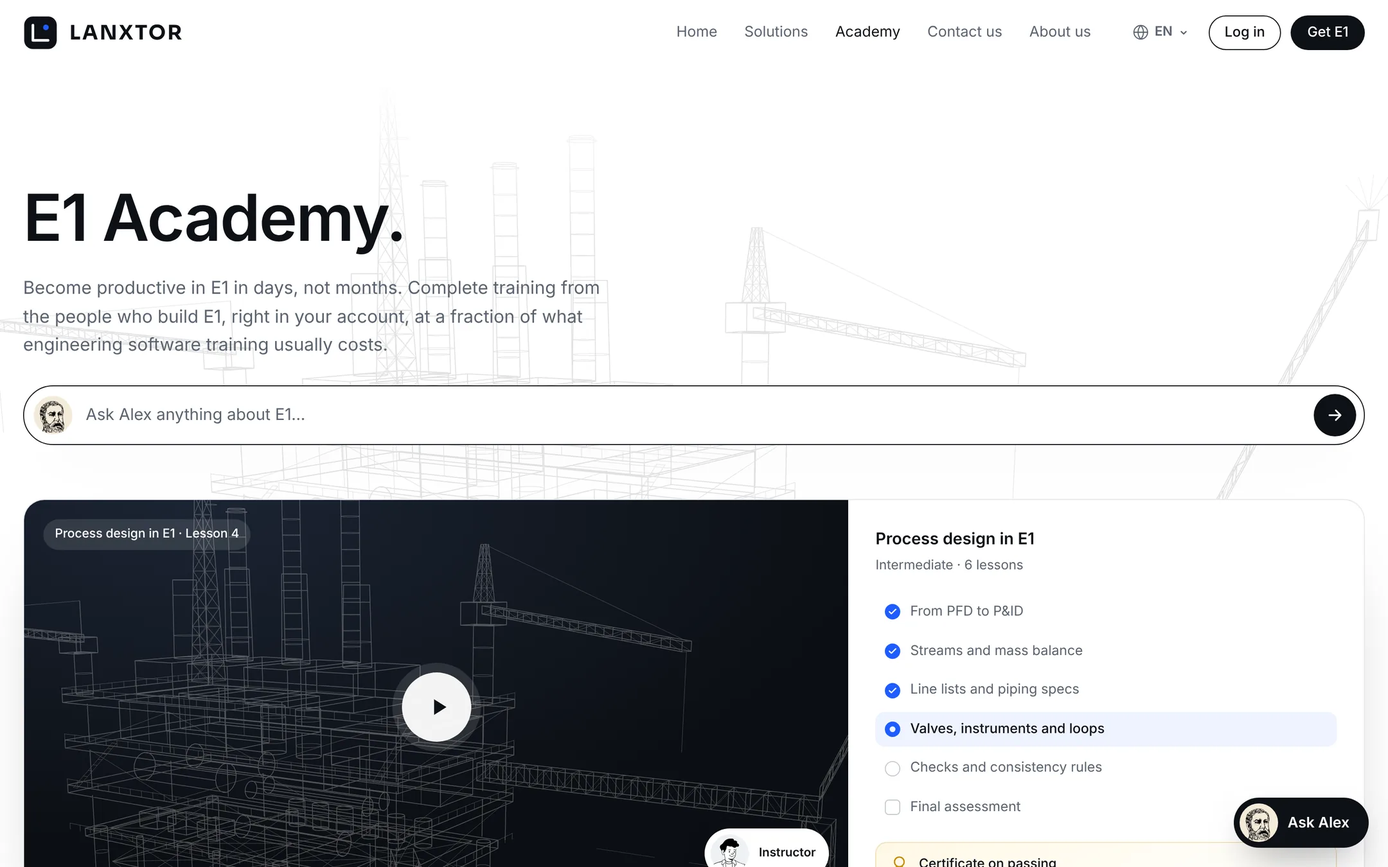
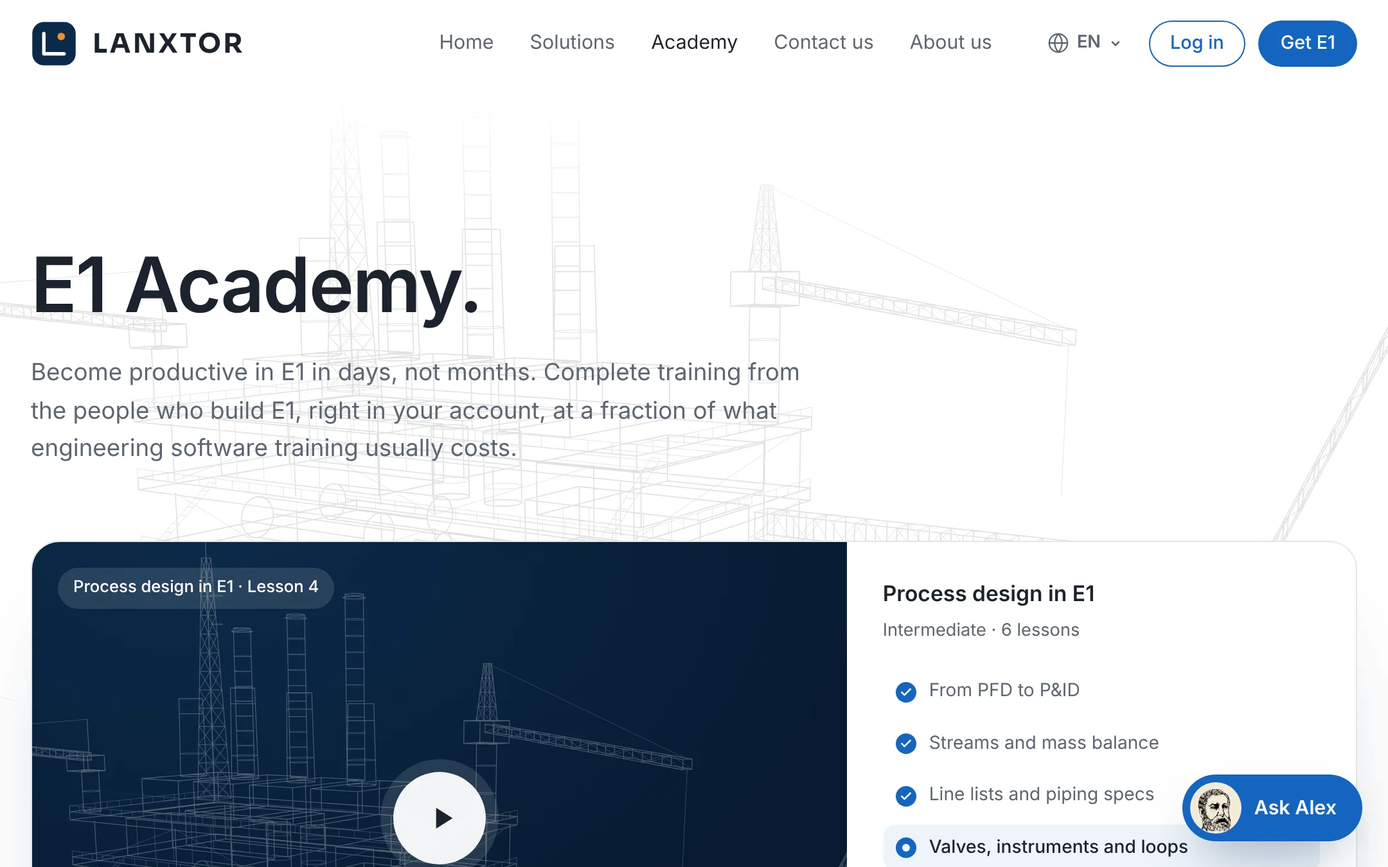
Get E1 starts with the E1 Cloud panel; no Ask Alex box on the pages
Get E1: the "Two ways to run E1" text and its two cards are gone, so the
E1 Cloud panel follows the download buttons. The "Ask Alex anything about
E1" box is removed from the home, Solutions, Academy and Get E1 pages:
the Ask Alex button at the bottom right of every page stays. User guide
(WEB-assistant, the Get E1 and Academy screenshots) updated.

Claude-Session: https://claude.ai/code/session_011w3qqfhTdgNCTiibxU4net

diff --git a/guide-account.html b/guide-account.html
@@ -322,7 +322,7 @@
       <tr><td>4</td><td>On any other computer or a tablet, open your account page and click <span class="ui">Open E1 in the browser</span>.</td><td>E1 opens at app.lanxtor.com.</td></tr>
     </tbody>
   </table></div>
-  <figure class="g-shot" style="max-width:1080px"><img src="assets/img/guides/web-download.webp" alt="The Get E1 page with the E1 Cloud and Your cloud cards and the Ask Alex bar" width="2160" height="1350" loading="lazy"><figcaption>The Get E1 page.</figcaption></figure>
+  <figure class="g-shot" style="max-width:1080px"><img src="assets/img/guides/web-download.webp" alt="The Get E1 page with the download buttons and the E1 Cloud panel" width="2160" height="1350" loading="lazy"><figcaption>The Get E1 page.</figcaption></figure>
   <p class="g-warn">This page has no direct link to open E1 in the browser; that link is on the account page.</p>
   <p class="g-related">Related: <a href="#web-installers">Desktop installers</a> · <a href="#web-pricing">Licenses and prices</a> · <a href="#web-cloud-specs">E1 Cloud specifications</a> · <a href="guide-access.html#acc-sign-in">Sign in to E1</a></p>
 </section>
@@ -523,16 +523,16 @@
       <tr><td>2</td><td>Find the prices.</td><td>"Included with E1 Editor" ($0 extra with the annual Editor subscription) and "The Academy on its own" ($750 one-time, per person; also included with the annual E1 Editor subscription). "Preview lessons are free with any E1 account."</td></tr>
     </tbody>
   </table></div>
-  <figure class="g-shot" style="max-width:1080px"><img src="assets/img/guides/web-academy.webp" alt="The public Academy page with the Ask Alex bar" width="2160" height="1350" loading="lazy"><figcaption>The Academy page, with the Ask Alex bar.</figcaption></figure>
+  <figure class="g-shot" style="max-width:1080px"><img src="assets/img/guides/web-academy.webp" alt="The public Academy page with the course player preview" width="2160" height="1350" loading="lazy"><figcaption>The Academy page.</figcaption></figure>
   <p class="g-related">Related: <a href="#web-academy">Academy courses</a> · <a href="#web-pricing">Licenses and prices</a></p>
 </section>
 
 <section class="g-feature" id="web-assistant">
   <h2>Alex on the website: ask and follow the suggestions</h2>
-  <div class="g-meta"><span class="g-status available">Available</span><span>Since 2026-11-06</span><span>Updated 2026-11-09</span><span class="g-id">WEB-assistant</span><span>Review checks W1, W9</span></div>
+  <div class="g-meta"><span class="g-status available">Available</span><span>Since 2026-11-06</span><span>Updated 2026-11-10</span><span class="g-id">WEB-assistant</span><span>Review checks W1, W9</span></div>
   <p class="g-summary">Ask the website's assistant anything about E1, by typing or by clicking one of its suggested questions, and it answers from the website's own information. After every answer it suggests 3 to 5 further questions in the direction you are going. No sign-in is needed. To have a request for information (RFI) answered, send it to sales@lanxtor.com.</p>
   <dl class="g-facts">
-    <dt>Where</dt><dd>The floating <span class="ui">Ask Alex</span> button on every page; the ask bar on the home, solutions, Get E1 and Academy pages</dd>
+    <dt>Where</dt><dd>The floating <span class="ui">Ask Alex</span> button at the bottom right of every page</dd>
     <dt>Who</dt><dd>Anyone; it uses no organization credits</dd>
   </dl>
   <h3>Steps</h3>
@@ -547,7 +547,7 @@
     </tbody>
   </table></div>
   <figure class="g-shot" style="max-width:1080px"><img src="assets/img/guides/web-assistant.webp" alt="The Alex panel on the Academy page: the answer to What does E1 cost? and the suggestions What is the difference between Viewer, Reviewer and Editor?, How many AI credits are included?, How does the 30-day trial work? and Is E1 free for students and universities?" width="2160" height="1350" loading="lazy"><figcaption>After an answer, Alex suggests the next questions.</figcaption></figure>
-  <p class="g-note">On a phone the panel fills the screen and its typing area stays right above the keyboard; tapping the ask bar on a page opens the panel straight away, ready to type. After you send a question the keyboard closes, so the answer and the suggestions have the screen.</p>
+  <p class="g-note">On a phone the panel fills the screen and its typing area stays right above the keyboard. After you send a question the keyboard closes, so the answer and the suggestions have the screen.</p>
   <p class="g-note">The suggestions are in the page language. Alex on the website has no microphone and does not read answers aloud; type, or click a suggestion.</p>
   <p class="g-warn">This assistant is not the Alex inside E1. It answers only from the website's text, may be wrong ("Answers are written by AI"), and keeps nothing of your conversation. Limit: 20 questions per 10 minutes per visitor ("That was a lot of questions in a short time…"). If it is not connected, it says "I'm not connected yet. …" and points to sales@lanxtor.com.</p>
   <p class="g-related">Related: <a href="guide-ai.html#ai-alex">Alex in E1</a> · <a href="#web-languages">Languages</a></p>

diff --git a/tools/guides/src/account.html b/tools/guides/src/account.html
@@ -252,7 +252,7 @@
       <tr><td>4</td><td>On any other computer or a tablet, open your account page and click <span class="ui">Open E1 in the browser</span>.</td><td>E1 opens at app.lanxtor.com.</td></tr>
     </tbody>
   </table></div>
-  <figure class="g-shot"><img src="assets/img/guides/web-download.webp" alt="The Get E1 page with the E1 Cloud and Your cloud cards and the Ask Alex bar" width="2160" height="1350" loading="lazy"><figcaption>The Get E1 page.</figcaption></figure>
+  <figure class="g-shot"><img src="assets/img/guides/web-download.webp" alt="The Get E1 page with the download buttons and the E1 Cloud panel" width="2160" height="1350" loading="lazy"><figcaption>The Get E1 page.</figcaption></figure>
   <p class="g-warn">This page has no direct link to open E1 in the browser; that link is on the account page.</p>
   <p class="g-related">Related: <a href="#web-installers">Desktop installers</a> · <a href="#web-pricing">Licenses and prices</a> · <a href="#web-cloud-specs">E1 Cloud specifications</a> · <a href="guide-access.html#acc-sign-in">Sign in to E1</a></p>
 </section>
@@ -453,16 +453,16 @@
       <tr><td>2</td><td>Find the prices.</td><td>"Included with E1 Editor" ($0 extra with the annual Editor subscription) and "The Academy on its own" ($750 one-time, per person; also included with the annual E1 Editor subscription). "Preview lessons are free with any E1 account."</td></tr>
     </tbody>
   </table></div>
-  <figure class="g-shot"><img src="assets/img/guides/web-academy.webp" alt="The public Academy page with the Ask Alex bar" width="2160" height="1350" loading="lazy"><figcaption>The Academy page, with the Ask Alex bar.</figcaption></figure>
+  <figure class="g-shot"><img src="assets/img/guides/web-academy.webp" alt="The public Academy page with the course player preview" width="2160" height="1350" loading="lazy"><figcaption>The Academy page.</figcaption></figure>
   <p class="g-related">Related: <a href="#web-academy">Academy courses</a> · <a href="#web-pricing">Licenses and prices</a></p>
 </section>
 
 <section class="g-feature" id="web-assistant">
   <h2>Alex on the website: ask and follow the suggestions</h2>
-  <div class="g-meta"><span class="g-status available">Available</span><span>Since 2026-11-06</span><span>Updated 2026-11-09</span><span class="g-id">WEB-assistant</span><span>Review checks W1, W9</span></div>
+  <div class="g-meta"><span class="g-status available">Available</span><span>Since 2026-11-06</span><span>Updated 2026-11-10</span><span class="g-id">WEB-assistant</span><span>Review checks W1, W9</span></div>
   <p class="g-summary">Ask the website's assistant anything about E1, by typing or by clicking one of its suggested questions, and it answers from the website's own information. After every answer it suggests 3 to 5 further questions in the direction you are going. No sign-in is needed. To have a request for information (RFI) answered, send it to sales@lanxtor.com.</p>
   <dl class="g-facts">
-    <dt>Where</dt><dd>The floating <span class="ui">Ask Alex</span> button on every page; the ask bar on the home, solutions, Get E1 and Academy pages</dd>
+    <dt>Where</dt><dd>The floating <span class="ui">Ask Alex</span> button at the bottom right of every page</dd>
     <dt>Who</dt><dd>Anyone; it uses no organization credits</dd>
   </dl>
   <h3>Steps</h3>
@@ -477,7 +477,7 @@
     </tbody>
   </table></div>
   <figure class="g-shot"><img src="assets/img/guides/web-assistant.webp" alt="The Alex panel on the Academy page: the answer to What does E1 cost? and the suggestions What is the difference between Viewer, Reviewer and Editor?, How many AI credits are included?, How does the 30-day trial work? and Is E1 free for students and universities?" width="2160" height="1350" loading="lazy"><figcaption>After an answer, Alex suggests the next questions.</figcaption></figure>
-  <p class="g-note">On a phone the panel fills the screen and its typing area stays right above the keyboard; tapping the ask bar on a page opens the panel straight away, ready to type. After you send a question the keyboard closes, so the answer and the suggestions have the screen.</p>
+  <p class="g-note">On a phone the panel fills the screen and its typing area stays right above the keyboard. After you send a question the keyboard closes, so the answer and the suggestions have the screen.</p>
   <p class="g-note">The suggestions are in the page language. Alex on the website has no microphone and does not read answers aloud; type, or click a suggestion.</p>
   <p class="g-warn">This assistant is not the Alex inside E1. It answers only from the website's text, may be wrong ("Answers are written by AI"), and keeps nothing of your conversation. Limit: 20 questions per 10 minutes per visitor ("That was a lot of questions in a short time…"). If it is not connected, it says "I'm not connected yet. …" and points to sales@lanxtor.com.</p>
   <p class="g-related">Related: <a href="guide-ai.html#ai-alex">Alex in E1</a> · <a href="#web-languages">Languages</a></p>

diff --git a/guide-features.html b/guide-features.html
@@ -315,7 +315,7 @@
             <tr data-status="preview" data-cat="account"><td class="g-id">WEB-certificate-page</td><td><a href="guide-account.html#web-certificate-page">The public certificate page</a><br><span class="muted">A public page per certificate to verify, share, download or print it.</span></td><td>Your account, Academy and website</td><td><span class="g-status preview">Preview data only</span></td><td class="g-date">2026-11-05</td><td class="g-date"></td><td>W3.4</td><td></td><td>Sharing a certificate</td></tr>
             <tr data-status="available" data-cat="account"><td class="g-id">WEB-user-guides</td><td><a href="guide-account.html#web-user-guides">User guides</a><br><span class="muted">Every feature of E1, step by step, with its status and the date it last changed.</span></td><td>Your account, Academy and website</td><td><span class="g-status available">Available</span></td><td class="g-date">2026-11-07</td><td class="g-date"></td><td></td><td></td><td>Using the user guides</td></tr>
             <tr data-status="available" data-cat="account"><td class="g-id">WEB-academy-public</td><td><a href="guide-account.html#web-academy-public">The Academy page</a><br><span class="muted">The public page with the courses on offer and what the Academy costs.</span></td><td>Your account, Academy and website</td><td><span class="g-status available">Available</span></td><td class="g-date"></td><td class="g-date">2026-11-10</td><td></td><td></td><td>The Academy page</td></tr>
-            <tr data-status="available" data-cat="account"><td class="g-id">WEB-assistant</td><td><a href="guide-account.html#web-assistant">Alex on the website: ask and follow the suggestions</a><br><span class="muted">Ask the website assistant about E1 by typing or clicking its suggested questions.</span></td><td>Your account, Academy and website</td><td><span class="g-status available">Available</span></td><td class="g-date">2026-11-06</td><td class="g-date">2026-11-09</td><td></td><td>W1, W9</td><td>Asking Alex on the website</td></tr>
+            <tr data-status="available" data-cat="account"><td class="g-id">WEB-assistant</td><td><a href="guide-account.html#web-assistant">Alex on the website: ask and follow the suggestions</a><br><span class="muted">Ask the website assistant about E1 by typing or clicking its suggested questions.</span></td><td>Your account, Academy and website</td><td><span class="g-status available">Available</span></td><td class="g-date">2026-11-06</td><td class="g-date">2026-11-10</td><td></td><td>W1, W9</td><td>Asking Alex on the website</td></tr>
             <tr data-status="preview" data-cat="account"><td class="g-id">WEB-board</td><td><a href="guide-account.html#web-board">The Shape E1 board: requests and votes</a><br><span class="muted">Search, vote for, comment on and post feature requests for E1.</span></td><td>Your account, Academy and website</td><td><span class="g-status preview">Preview data only</span></td><td class="g-date">2026-11-04</td><td class="g-date">2026-11-10</td><td>W1.2, W3.3</td><td>W7</td><td>Shaping E1 with us</td></tr>
             <tr data-status="available" data-cat="account"><td class="g-id">WEB-languages</td><td><a href="guide-account.html#web-languages">Languages</a><br><span class="muted">The website in English, German, French, Spanish and Norwegian.</span></td><td>Your account, Academy and website</td><td><span class="g-status available">Available</span></td><td class="g-date">2026-11-06</td><td class="g-date"></td><td></td><td></td><td>The website in your language</td></tr>
             <tr data-status="under-development" data-cat="reviewer"><td class="g-id">IPAD-sign-in</td><td><a href="guide-reviewer.html#ipad-sign-in">Open E1 Reviewer on the iPad and sign in</a><br><span class="muted">Open your E1&#x27;s /reviewer/ address in Safari on the iPad, sign in with your company account, and add it to the Home Screen; the E1 Reviewer app, once released, signs in the same way.</span></td><td>E1 Reviewer for iPad</td><td><span class="g-status under-development">Under development</span></td><td class="g-date"></td><td class="g-date">2026-11-09</td><td>27.1</td><td></td><td>E1 Reviewer on the iPad</td></tr>

diff --git a/fr/download.html b/fr/download.html
@@ -7,7 +7,7 @@
   <title>Obtenir E1 — LANXTOR</title>
   <meta name="description" content="Téléchargez E1 pour Windows et macOS, ou utilisez-le dans le navigateur, et choisissez votre licence : Student, Viewer, Reviewer, Editor ou Enterprise, avec un essai de 30 jours.">
   <link rel="icon" href="assets/img/favicon.svg" type="image/svg+xml">
-  <link rel="stylesheet" href="assets/css/styles.css?v=113">
+  <link rel="stylesheet" href="assets/css/styles.css?v=114">
   <!-- i18n:alternates -->
   <link rel="alternate" hreflang="en" href="https://www.lanxtor.com/download.html">
   <link rel="alternate" hreflang="de" href="https://www.lanxtor.com/de/download.html">
@@ -49,27 +49,6 @@
           <a class="get-btn get-btn-primary is-soon" href="guide-reviewer.html" data-get-os="ipad" data-soon-href="guide-reviewer.html" aria-disabled="true"><svg class="get-icon" viewBox="0 0 24 24" fill="none" stroke="currentColor" stroke-width="1.8" stroke-linecap="round" stroke-linejoin="round" aria-hidden="true"><rect x="4" y="2" width="16" height="20" rx="2.5"/><path d="M11 18.5h2"/></svg><span class="get-text"><b>E1 Reviewer pour iPad</b><small data-get-meta>App Store · Bientôt disponible</small></span></a>
         </div>
         <p class="get-release" data-release-line></p>
-        <form class="ask-box reveal" data-ask>
-          <span class="ask-face"><img src="assets/img/hero-avatar.png?v=2" alt="" width="40" height="40"></span>
-          <input type="text" name="q" maxlength="2000" autocomplete="off" placeholder="Demandez à Alex tout ce que vous voulez sur E1…" aria-label="Demandez à Alex tout ce que vous voulez sur E1">
-          <button type="button" class="ask-reset" data-ask-reset hidden aria-label="Nouvelle conversation" title="Nouvelle conversation"><svg viewBox="0 0 24 24" fill="none" stroke="currentColor" stroke-width="1.8" stroke-linecap="round" stroke-linejoin="round" aria-hidden="true"><path d="M3 12a9 9 0 1 0 3-6.7L3 8"/><path d="M3 3v5h5"/></svg></button>
-          <button type="submit" class="ask-send" aria-label="Demander"><svg viewBox="0 0 24 24" fill="none" stroke="currentColor" stroke-width="2" stroke-linecap="round" stroke-linejoin="round" aria-hidden="true"><path d="M5 12h14M13 6l6 6-6 6"/></svg></button>
-        </form>
-        <p class="lead getE1-ways reveal">Deux façons d'utiliser E1 : en service dans E1 Cloud, prêt dès votre inscription, ou en installation d'entreprise sur le cloud ou les serveurs de votre choix.</p>
-        <div class="choice-grid reveal">
-          <a class="choice choice-dark choice-saas" href="fr/download.html#saas">
-            <span class="choice-tag">Logiciel en tant que service</span>
-            <span class="choice-title">E1 Cloud</span>
-            <span class="choice-desc">Hébergé et exploité par LANXTOR. Inscrivez-vous et commencez, rien à installer ni à maintenir.</span>
-            <svg class="choice-arrow" viewBox="0 0 24 24" fill="none" stroke="currentColor" stroke-width="1.6" stroke-linecap="round" stroke-linejoin="round" aria-hidden="true"><path d="M5 12h14M13 6l6 6-6 6"/></svg>
-          </a>
-          <a class="choice choice-dark" href="fr/download.html#own-servers">
-            <span class="choice-tag">Installation d'entreprise</span>
-            <span class="choice-title">Votre cloud. Votre choix.</span>
-            <span class="choice-desc">E1 dans votre propre environnement, avec votre propre base de données.</span>
-            <svg class="choice-arrow" viewBox="0 0 24 24" fill="none" stroke="currentColor" stroke-width="1.6" stroke-linecap="round" stroke-linejoin="round" aria-hidden="true"><path d="M5 12h14M13 6l6 6-6 6"/></svg>
-          </a>
-        </div>
       </div>
     </section>
 

diff --git a/de/download.html b/de/download.html
@@ -7,7 +7,7 @@
   <title>E1 holen — LANXTOR</title>
   <meta name="description" content="Laden Sie E1 für Windows und macOS herunter oder nutzen Sie es im Browser, und wählen Sie Ihre Lizenz: Student, Viewer, Reviewer, Editor oder Enterprise, mit 30-Tage-Test.">
   <link rel="icon" href="assets/img/favicon.svg" type="image/svg+xml">
-  <link rel="stylesheet" href="assets/css/styles.css?v=113">
+  <link rel="stylesheet" href="assets/css/styles.css?v=114">
   <!-- i18n:alternates -->
   <link rel="alternate" hreflang="en" href="https://www.lanxtor.com/download.html">
   <link rel="alternate" hreflang="de" href="https://www.lanxtor.com/de/download.html">
@@ -49,27 +49,6 @@
           <a class="get-btn get-btn-primary is-soon" href="guide-reviewer.html" data-get-os="ipad" data-soon-href="guide-reviewer.html" aria-disabled="true"><svg class="get-icon" viewBox="0 0 24 24" fill="none" stroke="currentColor" stroke-width="1.8" stroke-linecap="round" stroke-linejoin="round" aria-hidden="true"><rect x="4" y="2" width="16" height="20" rx="2.5"/><path d="M11 18.5h2"/></svg><span class="get-text"><b>E1 Reviewer für iPad</b><small data-get-meta>App Store · Demnächst</small></span></a>
         </div>
         <p class="get-release" data-release-line></p>
-        <form class="ask-box reveal" data-ask>
-          <span class="ask-face"><img src="assets/img/hero-avatar.png?v=2" alt="" width="40" height="40"></span>
-          <input type="text" name="q" maxlength="2000" autocomplete="off" placeholder="Fragen Sie Alex alles zu E1…" aria-label="Fragen Sie Alex alles zu E1">
-          <button type="button" class="ask-reset" data-ask-reset hidden aria-label="Neues Gespräch" title="Neues Gespräch"><svg viewBox="0 0 24 24" fill="none" stroke="currentColor" stroke-width="1.8" stroke-linecap="round" stroke-linejoin="round" aria-hidden="true"><path d="M3 12a9 9 0 1 0 3-6.7L3 8"/><path d="M3 3v5h5"/></svg></button>
-          <button type="submit" class="ask-send" aria-label="Fragen"><svg viewBox="0 0 24 24" fill="none" stroke="currentColor" stroke-width="2" stroke-linecap="round" stroke-linejoin="round" aria-hidden="true"><path d="M5 12h14M13 6l6 6-6 6"/></svg></button>
-        </form>
-        <p class="lead getE1-ways reveal">Zwei Wege, E1 zu betreiben: als Service in der E1 Cloud, sofort nach der Registrierung einsatzbereit, oder als Unternehmensinstallation in der Cloud oder auf den Servern Ihrer Wahl.</p>
-        <div class="choice-grid reveal">
-          <a class="choice choice-dark choice-saas" href="de/download.html#saas">
-            <span class="choice-tag">Software as a Service</span>
-            <span class="choice-title">E1 Cloud</span>
-            <span class="choice-desc">Gehostet und betrieben von LANXTOR. Registrieren und loslegen, nichts einzurichten oder zu warten.</span>
-            <svg class="choice-arrow" viewBox="0 0 24 24" fill="none" stroke="currentColor" stroke-width="1.6" stroke-linecap="round" stroke-linejoin="round" aria-hidden="true"><path d="M5 12h14M13 6l6 6-6 6"/></svg>
-          </a>
-          <a class="choice choice-dark" href="de/download.html#own-servers">
-            <span class="choice-tag">Unternehmensinstallation</span>
-            <span class="choice-title">Ihre Cloud. Ihre Wahl.</span>
-            <span class="choice-desc">E1 in Ihrer eigenen Umgebung, mit Ihrer eigenen Datenbank.</span>
-            <svg class="choice-arrow" viewBox="0 0 24 24" fill="none" stroke="currentColor" stroke-width="1.6" stroke-linecap="round" stroke-linejoin="round" aria-hidden="true"><path d="M5 12h14M13 6l6 6-6 6"/></svg>
-          </a>
-        </div>
       </div>
     </section>
 

diff --git a/es/download.html b/es/download.html
@@ -7,7 +7,7 @@
   <title>Obtén E1 — LANXTOR</title>
   <meta name="description" content="Descarga E1 para Windows y macOS, o úsalo en el navegador, y elige tu licencia: Student, Viewer, Reviewer, Editor o Enterprise, con una prueba de 30 días.">
   <link rel="icon" href="assets/img/favicon.svg" type="image/svg+xml">
-  <link rel="stylesheet" href="assets/css/styles.css?v=113">
+  <link rel="stylesheet" href="assets/css/styles.css?v=114">
   <!-- i18n:alternates -->
   <link rel="alternate" hreflang="en" href="https://www.lanxtor.com/download.html">
   <link rel="alternate" hreflang="de" href="https://www.lanxtor.com/de/download.html">
@@ -49,27 +49,6 @@
           <a class="get-btn get-btn-primary is-soon" href="guide-reviewer.html" data-get-os="ipad" data-soon-href="guide-reviewer.html" aria-disabled="true"><svg class="get-icon" viewBox="0 0 24 24" fill="none" stroke="currentColor" stroke-width="1.8" stroke-linecap="round" stroke-linejoin="round" aria-hidden="true"><rect x="4" y="2" width="16" height="20" rx="2.5"/><path d="M11 18.5h2"/></svg><span class="get-text"><b>E1 Reviewer para iPad</b><small data-get-meta>App Store · Próximamente</small></span></a>
         </div>
         <p class="get-release" data-release-line></p>
-        <form class="ask-box reveal" data-ask>
-          <span class="ask-face"><img src="assets/img/hero-avatar.png?v=2" alt="" width="40" height="40"></span>
-          <input type="text" name="q" maxlength="2000" autocomplete="off" placeholder="Pregúntale a Alex lo que quieras sobre E1…" aria-label="Pregúntale a Alex lo que quieras sobre E1">
-          <button type="button" class="ask-reset" data-ask-reset hidden aria-label="Nueva conversación" title="Nueva conversación"><svg viewBox="0 0 24 24" fill="none" stroke="currentColor" stroke-width="1.8" stroke-linecap="round" stroke-linejoin="round" aria-hidden="true"><path d="M3 12a9 9 0 1 0 3-6.7L3 8"/><path d="M3 3v5h5"/></svg></button>
-          <button type="submit" class="ask-send" aria-label="Preguntar"><svg viewBox="0 0 24 24" fill="none" stroke="currentColor" stroke-width="2" stroke-linecap="round" stroke-linejoin="round" aria-hidden="true"><path d="M5 12h14M13 6l6 6-6 6"/></svg></button>
-        </form>
-        <p class="lead getE1-ways reveal">Dos formas de usar E1: como servicio en E1 Cloud, listo en cuanto te registras, o como instalación empresarial en la nube o los servidores que elijas.</p>
-        <div class="choice-grid reveal">
-          <a class="choice choice-dark choice-saas" href="es/download.html#saas">
-            <span class="choice-tag">Software como servicio</span>
-            <span class="choice-title">E1 Cloud</span>
-            <span class="choice-desc">Alojado y operado por LANXTOR. Regístrate y empieza; nada que configurar ni mantener.</span>
-            <svg class="choice-arrow" viewBox="0 0 24 24" fill="none" stroke="currentColor" stroke-width="1.6" stroke-linecap="round" stroke-linejoin="round" aria-hidden="true"><path d="M5 12h14M13 6l6 6-6 6"/></svg>
-          </a>
-          <a class="choice choice-dark" href="es/download.html#own-servers">
-            <span class="choice-tag">Instalación empresarial</span>
-            <span class="choice-title">Tu nube. Tu elección.</span>
-            <span class="choice-desc">E1 en tu propio entorno, con tu propia base de datos.</span>
-            <svg class="choice-arrow" viewBox="0 0 24 24" fill="none" stroke="currentColor" stroke-width="1.6" stroke-linecap="round" stroke-linejoin="round" aria-hidden="true"><path d="M5 12h14M13 6l6 6-6 6"/></svg>
-          </a>
-        </div>
       </div>
     </section>
 

diff --git a/no/download.html b/no/download.html
@@ -7,7 +7,7 @@
   <title>Skaff deg E1 – LANXTOR</title>
   <meta name="description" content="Last ned E1 for Windows og macOS, eller bruk det i nettleseren, og velg lisens: Student, Viewer, Reviewer, Editor eller Enterprise, med 30 dagers prøveperiode.">
   <link rel="icon" href="assets/img/favicon.svg" type="image/svg+xml">
-  <link rel="stylesheet" href="assets/css/styles.css?v=113">
+  <link rel="stylesheet" href="assets/css/styles.css?v=114">
   <!-- i18n:alternates -->
   <link rel="alternate" hreflang="en" href="https://www.lanxtor.com/download.html">
   <link rel="alternate" hreflang="de" href="https://www.lanxtor.com/de/download.html">
@@ -49,27 +49,6 @@
           <a class="get-btn get-btn-primary is-soon" href="guide-reviewer.html" data-get-os="ipad" data-soon-href="guide-reviewer.html" aria-disabled="true"><svg class="get-icon" viewBox="0 0 24 24" fill="none" stroke="currentColor" stroke-width="1.8" stroke-linecap="round" stroke-linejoin="round" aria-hidden="true"><rect x="4" y="2" width="16" height="20" rx="2.5"/><path d="M11 18.5h2"/></svg><span class="get-text"><b>E1 Reviewer for iPad</b><small data-get-meta>App Store · Kommer snart</small></span></a>
         </div>
         <p class="get-release" data-release-line></p>
-        <form class="ask-box reveal" data-ask>
-          <span class="ask-face"><img src="assets/img/hero-avatar.png?v=2" alt="" width="40" height="40"></span>
-          <input type="text" name="q" maxlength="2000" autocomplete="off" placeholder="Spør Alex om alt om E1…" aria-label="Spør Alex om alt om E1">
-          <button type="button" class="ask-reset" data-ask-reset hidden aria-label="Ny samtale" title="Ny samtale"><svg viewBox="0 0 24 24" fill="none" stroke="currentColor" stroke-width="1.8" stroke-linecap="round" stroke-linejoin="round" aria-hidden="true"><path d="M3 12a9 9 0 1 0 3-6.7L3 8"/><path d="M3 3v5h5"/></svg></button>
-          <button type="submit" class="ask-send" aria-label="Spør"><svg viewBox="0 0 24 24" fill="none" stroke="currentColor" stroke-width="2" stroke-linecap="round" stroke-linejoin="round" aria-hidden="true"><path d="M5 12h14M13 6l6 6-6 6"/></svg></button>
-        </form>
-        <p class="lead getE1-ways reveal">To måter å kjøre E1 på: som en tjeneste i E1 Cloud, klar i det øyeblikket du registrerer deg, eller som en bedriftsinstallasjon i skyen eller på serverne du velger.</p>
-        <div class="choice-grid reveal">
-          <a class="choice choice-dark choice-saas" href="no/download.html#saas">
-            <span class="choice-tag">Programvare som tjeneste</span>
-            <span class="choice-title">E1 Cloud</span>
-            <span class="choice-desc">Driftet av LANXTOR. Registrer deg og kom i gang, ingenting å sette opp eller vedlikeholde.</span>
-            <svg class="choice-arrow" viewBox="0 0 24 24" fill="none" stroke="currentColor" stroke-width="1.6" stroke-linecap="round" stroke-linejoin="round" aria-hidden="true"><path d="M5 12h14M13 6l6 6-6 6"/></svg>
-          </a>
-          <a class="choice choice-dark" href="no/download.html#own-servers">
-            <span class="choice-tag">Bedriftsinstallasjon</span>
-            <span class="choice-title">Din sky. Ditt valg.</span>
-            <span class="choice-desc">E1 i ditt eget miljø, med din egen database.</span>
-            <svg class="choice-arrow" viewBox="0 0 24 24" fill="none" stroke="currentColor" stroke-width="1.6" stroke-linecap="round" stroke-linejoin="round" aria-hidden="true"><path d="M5 12h14M13 6l6 6-6 6"/></svg>
-          </a>
-        </div>
       </div>
     </section>
 

diff --git a/download.html b/download.html
@@ -6,7 +6,7 @@
   <title>Get E1 — LANXTOR</title>
   <meta name="description" content="Download E1 for Windows and macOS, or use it in the browser, and choose your license: Student, Viewer, Reviewer, Editor or Enterprise, with a 30-day trial.">
   <link rel="icon" href="assets/img/favicon.svg" type="image/svg+xml">
-  <link rel="stylesheet" href="assets/css/styles.css?v=113">
+  <link rel="stylesheet" href="assets/css/styles.css?v=114">
   <!-- i18n:alternates -->
   <link rel="alternate" hreflang="en" href="https://www.lanxtor.com/download.html">
   <link rel="alternate" hreflang="de" href="https://www.lanxtor.com/de/download.html">
@@ -48,27 +48,6 @@
           <a class="get-btn get-btn-primary is-soon" href="guide-reviewer.html" data-get-os="ipad" data-soon-href="guide-reviewer.html" aria-disabled="true"><svg class="get-icon" viewBox="0 0 24 24" fill="none" stroke="currentColor" stroke-width="1.8" stroke-linecap="round" stroke-linejoin="round" aria-hidden="true"><rect x="4" y="2" width="16" height="20" rx="2.5"/><path d="M11 18.5h2"/></svg><span class="get-text"><b>E1 Reviewer for iPad</b><small data-get-meta>App Store · Coming soon</small></span></a>
         </div>
         <p class="get-release" data-release-line></p>
-        <form class="ask-box reveal" data-ask>
-          <span class="ask-face"><img src="assets/img/hero-avatar.png?v=2" alt="" width="40" height="40"></span>
-          <input type="text" name="q" maxlength="2000" autocomplete="off" placeholder="Ask Alex anything about E1…" aria-label="Ask Alex anything about E1">
-          <button type="button" class="ask-reset" data-ask-reset hidden aria-label="New conversation" title="New conversation"><svg viewBox="0 0 24 24" fill="none" stroke="currentColor" stroke-width="1.8" stroke-linecap="round" stroke-linejoin="round" aria-hidden="true"><path d="M3 12a9 9 0 1 0 3-6.7L3 8"/><path d="M3 3v5h5"/></svg></button>
-          <button type="submit" class="ask-send" aria-label="Ask"><svg viewBox="0 0 24 24" fill="none" stroke="currentColor" stroke-width="2" stroke-linecap="round" stroke-linejoin="round" aria-hidden="true"><path d="M5 12h14M13 6l6 6-6 6"/></svg></button>
-        </form>
-        <p class="lead getE1-ways reveal">Two ways to run E1: as a service in the E1 Cloud, ready the moment you sign up, or as an enterprise installation on the cloud or servers you choose.</p>
-        <div class="choice-grid reveal">
-          <a class="choice choice-dark choice-saas" href="#saas">
-            <span class="choice-tag">Software as a service</span>
-            <span class="choice-title">E1 Cloud</span>
-            <span class="choice-desc">Hosted and run by LANXTOR. Sign up and start, nothing to set up or maintain.</span>
-            <svg class="choice-arrow" viewBox="0 0 24 24" fill="none" stroke="currentColor" stroke-width="1.6" stroke-linecap="round" stroke-linejoin="round" aria-hidden="true"><path d="M5 12h14M13 6l6 6-6 6"/></svg>
-          </a>
-          <a class="choice choice-dark" href="#own-servers">
-            <span class="choice-tag">Enterprise installation</span>
-            <span class="choice-title">Your cloud. Your choice.</span>
-            <span class="choice-desc">E1 in your own environment, with your own database.</span>
-            <svg class="choice-arrow" viewBox="0 0 24 24" fill="none" stroke="currentColor" stroke-width="1.6" stroke-linecap="round" stroke-linejoin="round" aria-hidden="true"><path d="M5 12h14M13 6l6 6-6 6"/></svg>
-          </a>
-        </div>
       </div>
     </section>
 

diff --git a/guide.html b/guide.html
@@ -150,6 +150,7 @@
             <li><time datetime="2026-11-10">2026-11-10</time><span><a href="guide-account.html#web-cloud-specs">E1 Cloud specifications</a> <span class="g-status available">Available</span> <span class="muted">— Your account, Academy and website</span></span></li>
             <li><time datetime="2026-11-10">2026-11-10</time><span><a href="guide-account.html#web-pricing">Licenses, prices, currencies and the trial</a> <span class="g-status available">Available</span> <span class="muted">— Your account, Academy and website</span></span></li>
             <li><time datetime="2026-11-10">2026-11-10</time><span><a href="guide-account.html#web-academy-public">The Academy page</a> <span class="g-status available">Available</span> <span class="muted">— Your account, Academy and website</span></span></li>
+            <li><time datetime="2026-11-10">2026-11-10</time><span><a href="guide-account.html#web-assistant">Alex on the website: ask and follow the suggestions</a> <span class="g-status available">Available</span> <span class="muted">— Your account, Academy and website</span></span></li>
             <li><time datetime="2026-11-10">2026-11-10</time><span><a href="guide-account.html#web-board">The Shape E1 board: requests and votes</a> <span class="g-status preview">Preview data only</span> <span class="muted">— Your account, Academy and website</span></span></li>
             <li><time datetime="2026-11-09">2026-11-09</time><span><a href="guide-getting-started.html#gs-layout">The E1 window</a> <span class="g-status available">Available</span> <span class="muted">— Getting started</span></span></li>
             <li><time datetime="2026-11-09">2026-11-09</time><span><a href="guide-getting-started.html#gs-menu-file">The File menu</a> <span class="g-status available">Available</span> <span class="muted">— Getting started</span></span></li>
@@ -165,7 +166,6 @@
             <li><time datetime="2026-11-09">2026-11-09</time><span><a href="guide-getting-started.html#gs-messages">Messages</a> <span class="g-status planned">Planned</span> <span class="muted">— Getting started</span></span></li>
             <li><time datetime="2026-11-09">2026-11-09</time><span><a href="guide-projects.html#prj-new-project">Create a project</a> <span class="g-status available">Available</span> <span class="muted">— Projects and the explorer</span></span></li>
             <li><time datetime="2026-11-09">2026-11-09</time><span><a href="guide-projects.html#prj-sections">The sections of a project</a> <span class="g-status available">Available</span> <span class="muted">— Projects and the explorer</span></span></li>
-            <li><time datetime="2026-11-09">2026-11-09</time><span><a href="guide-projects.html#prj-folders-sheets">Folders and 2D spaces inside a project</a> <span class="g-status available">Available</span> <span class="muted">— Projects and the explorer</span></span></li>
           </ul>
         </section>
         <section class="g-block" id="under-development">

diff --git a/fr/academy.html b/fr/academy.html
@@ -44,12 +44,6 @@
       <div class="container">
         <h1 class="reveal">E1 Academy.</h1>
         <p class="lead reveal">Devenez productif dans E1 en quelques jours, pas en quelques mois. Une formation complète par ceux qui développent E1, directement dans votre compte, pour une fraction du coût habituel d'une formation à un logiciel d'ingénierie.</p>
-        <form class="ask-box reveal" data-ask>
-          <span class="ask-face"><img src="assets/img/hero-avatar.png?v=2" alt="" width="40" height="40"></span>
-          <input type="text" name="q" maxlength="2000" autocomplete="off" placeholder="Demandez à Alex tout ce que vous voulez sur E1…" aria-label="Demandez à Alex tout ce que vous voulez sur E1">
-          <button type="button" class="ask-reset" data-ask-reset hidden aria-label="Nouvelle conversation" title="Nouvelle conversation"><svg viewBox="0 0 24 24" fill="none" stroke="currentColor" stroke-width="1.8" stroke-linecap="round" stroke-linejoin="round" aria-hidden="true"><path d="M3 12a9 9 0 1 0 3-6.7L3 8"/><path d="M3 3v5h5"/></svg></button>
-          <button type="submit" class="ask-send" aria-label="Demander"><svg viewBox="0 0 24 24" fill="none" stroke="currentColor" stroke-width="2" stroke-linecap="round" stroke-linejoin="round" aria-hidden="true"><path d="M5 12h14M13 6l6 6-6 6"/></svg></button>
-        </form>
         <div class="player-mock reveal" aria-hidden="true">
           <div class="pm-video">
             <img src="assets/img/plant-wireframe.svg" alt="">

diff --git a/es/academy.html b/es/academy.html
@@ -44,12 +44,6 @@
       <div class="container">
         <h1 class="reveal">E1 Academy.</h1>
         <p class="lead reveal">Sé productivo en E1 en días, no en meses. Formación completa impartida por quienes desarrollan E1, directamente en tu cuenta, por una fracción de lo que suele costar la formación en software de ingeniería.</p>
-        <form class="ask-box reveal" data-ask>
-          <span class="ask-face"><img src="assets/img/hero-avatar.png?v=2" alt="" width="40" height="40"></span>
-          <input type="text" name="q" maxlength="2000" autocomplete="off" placeholder="Pregúntale a Alex lo que quieras sobre E1…" aria-label="Pregúntale a Alex lo que quieras sobre E1">
-          <button type="button" class="ask-reset" data-ask-reset hidden aria-label="Nueva conversación" title="Nueva conversación"><svg viewBox="0 0 24 24" fill="none" stroke="currentColor" stroke-width="1.8" stroke-linecap="round" stroke-linejoin="round" aria-hidden="true"><path d="M3 12a9 9 0 1 0 3-6.7L3 8"/><path d="M3 3v5h5"/></svg></button>
-          <button type="submit" class="ask-send" aria-label="Preguntar"><svg viewBox="0 0 24 24" fill="none" stroke="currentColor" stroke-width="2" stroke-linecap="round" stroke-linejoin="round" aria-hidden="true"><path d="M5 12h14M13 6l6 6-6 6"/></svg></button>
-        </form>
         <div class="player-mock reveal" aria-hidden="true">
           <div class="pm-video">
             <img src="assets/img/plant-wireframe.svg" alt="">

diff --git a/de/academy.html b/de/academy.html
@@ -44,12 +44,6 @@
       <div class="container">
         <h1 class="reveal">E1 Academy.</h1>
         <p class="lead reveal">Arbeiten Sie in Tagen statt Monaten produktiv mit E1. Vollständige Schulungen von den Entwicklern von E1, direkt in Ihrem Konto, zu einem Bruchteil der üblichen Kosten für Engineering-Software-Schulungen.</p>
-        <form class="ask-box reveal" data-ask>
-          <span class="ask-face"><img src="assets/img/hero-avatar.png?v=2" alt="" width="40" height="40"></span>
-          <input type="text" name="q" maxlength="2000" autocomplete="off" placeholder="Fragen Sie Alex alles zu E1…" aria-label="Fragen Sie Alex alles zu E1">
-          <button type="button" class="ask-reset" data-ask-reset hidden aria-label="Neues Gespräch" title="Neues Gespräch"><svg viewBox="0 0 24 24" fill="none" stroke="currentColor" stroke-width="1.8" stroke-linecap="round" stroke-linejoin="round" aria-hidden="true"><path d="M3 12a9 9 0 1 0 3-6.7L3 8"/><path d="M3 3v5h5"/></svg></button>
-          <button type="submit" class="ask-send" aria-label="Fragen"><svg viewBox="0 0 24 24" fill="none" stroke="currentColor" stroke-width="2" stroke-linecap="round" stroke-linejoin="round" aria-hidden="true"><path d="M5 12h14M13 6l6 6-6 6"/></svg></button>
-        </form>
         <div class="player-mock reveal" aria-hidden="true">
           <div class="pm-video">
             <img src="assets/img/plant-wireframe.svg" alt="">
